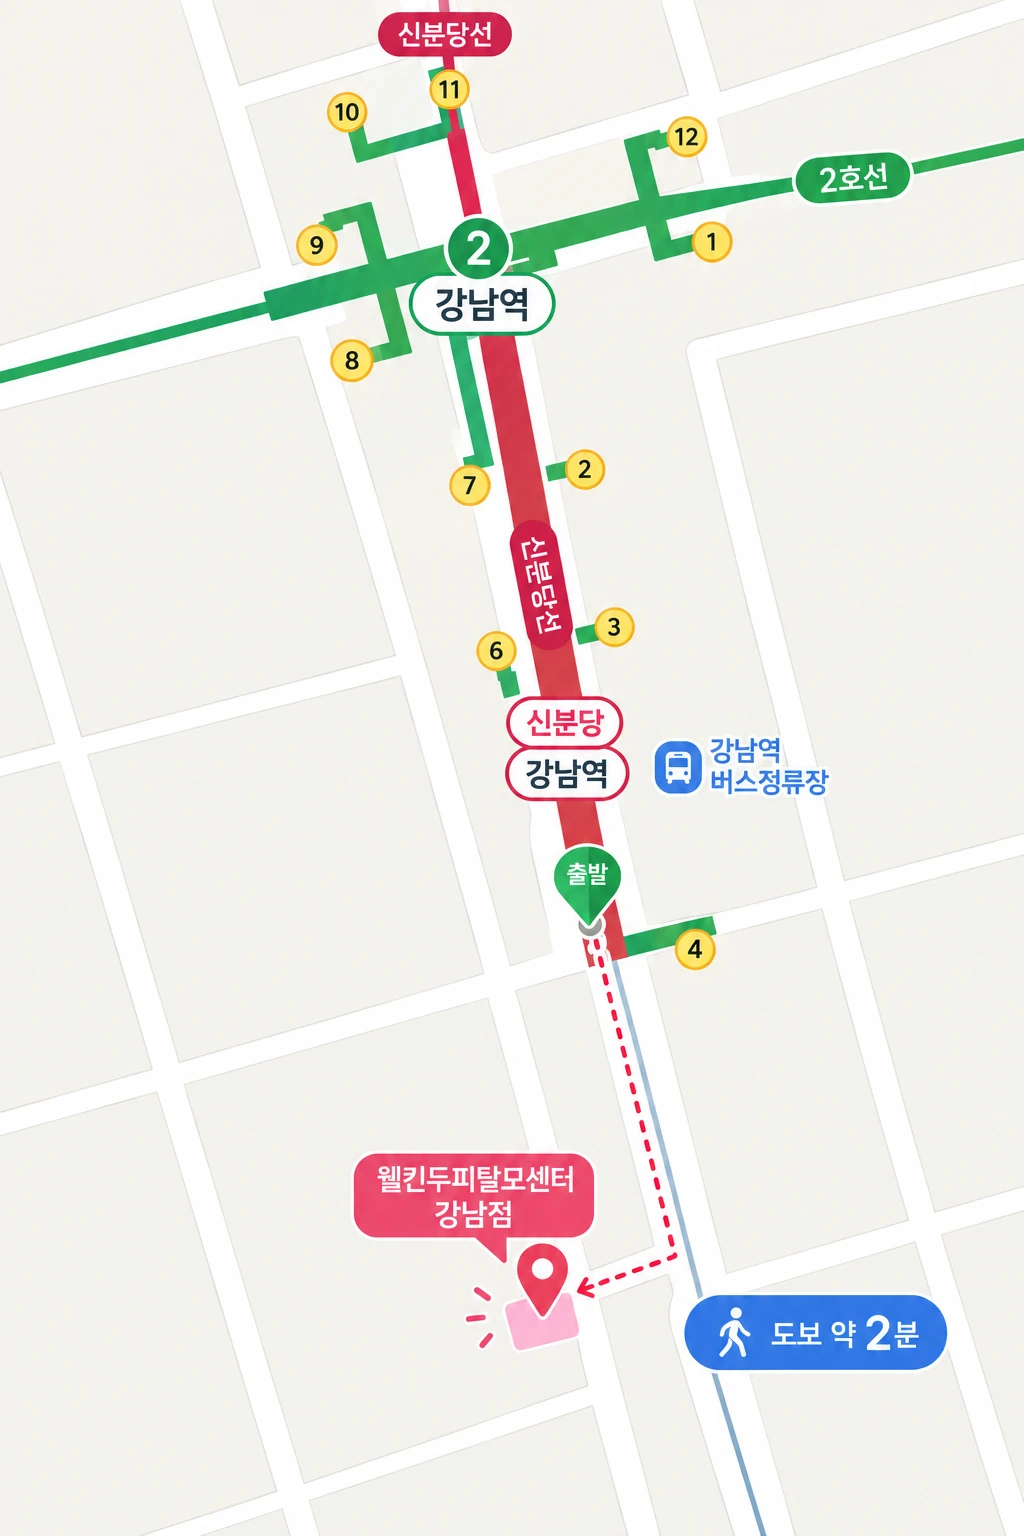
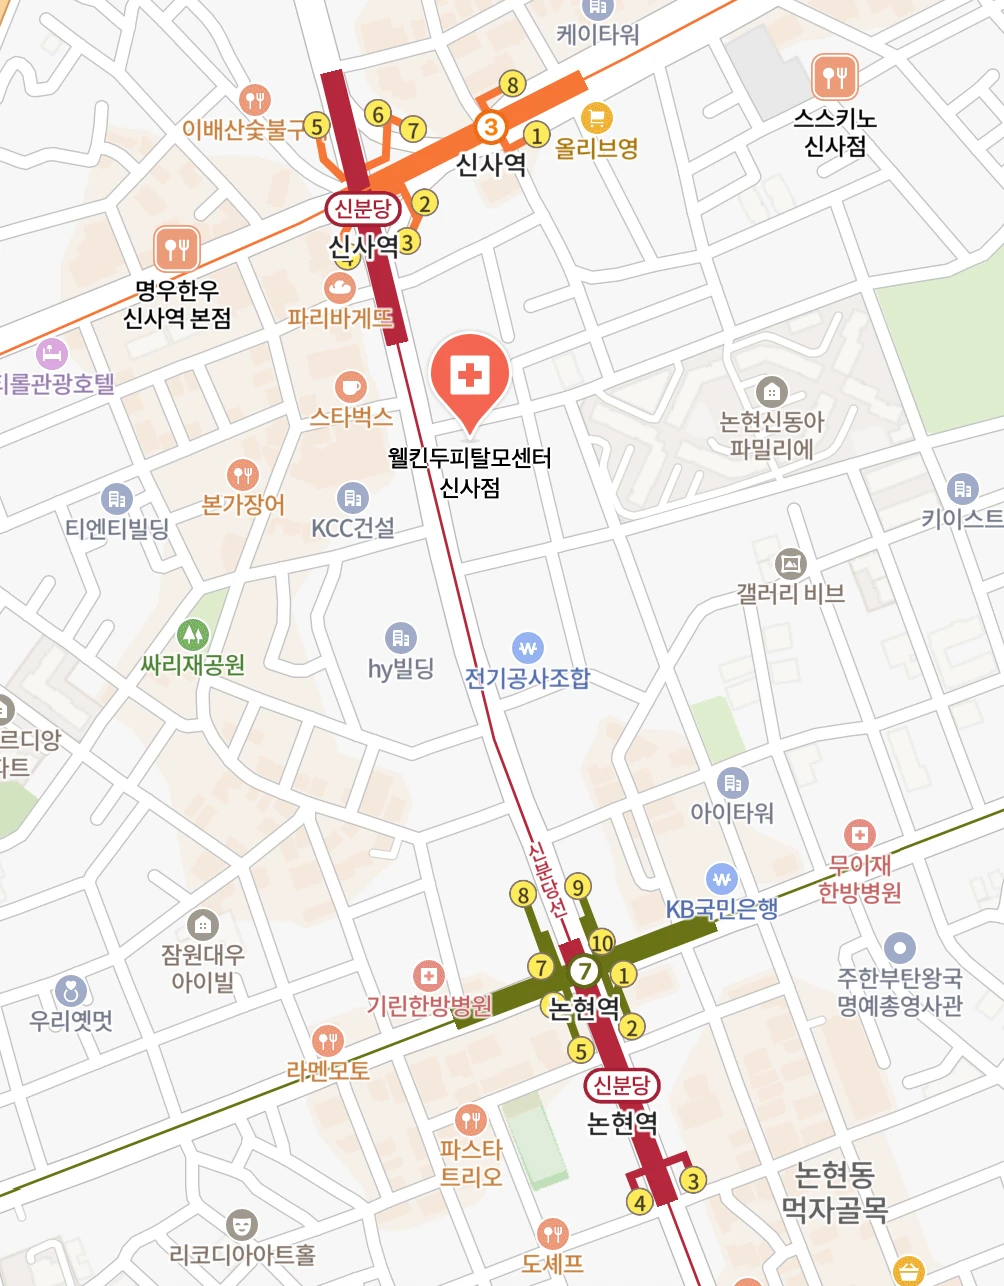
Update headspa location to Sinsa branch with its new map and search query

diff --git a/index.html b/index.html
@@ -464,8 +464,8 @@
       <p class="eyebrow">TIME TABLE</p>
       <div class="schedule">
         <p class="day-label">DAY 1</p>
-        <div class="item"><span class="t">15:00</span><span class="rail"></span><span><span class="name">헤드스파 <button class="place-btn" data-place-title="헤드스파 장소" data-place-value="웰킨두피탈모센터 강남점
-강남역 5번 출구에서 도보 약 2분" data-place-map="웰킨두피탈모센터 강남점" data-place-image="headspa-map.webp">&gt;&gt;&gt; 장소 확인하기</button></span><br><span class="desc">무더운 여름을 견뎌준 두피에게 주는 휴식 시간</span></span></div>
+        <div class="item"><span class="t">15:00</span><span class="rail"></span><span><span class="name">헤드스파 <button class="place-btn" data-place-title="헤드스파 장소" data-place-value="웰킨두피탈모센터 신사점
+신분당선 신사역 인근" data-place-map="웰킨두피탈모센터 신사점" data-place-image="headspa-map.webp">&gt;&gt;&gt; 장소 확인하기</button></span><br><span class="desc">무더운 여름을 견뎌준 두피에게 주는 휴식 시간</span></span></div>
         <div class="item"><span class="t">17:00</span><span class="rail"></span><span><span class="name">걸스 파티 <button class="place-btn" data-place-title="걸스 파티 장소" data-place-value="Hyejin's Sweet Home" data-place-image="girlsparty-photo.webp">&gt;&gt;&gt; 장소 확인하기</button></span><br><span class="desc">각자 준비하는 맛있는 음식 먹으면서 토크토크 타임</span></span></div>
         <div class="item"><span class="t">20:00</span><span class="rail"></span><span><span class="name">주제 토크</span><br><span class="desc">몇가지 주제 정해서 생각을 공유해보는 시간</span></span></div>
         <div class="item"><span class="t">21:00</span><span class="rail"></span><span><span class="name">어드민나이트</span><br><span class="desc">각자 하지 못했던, 하고 싶었던, 해야하는 일 하는 시간</span></span></div>
